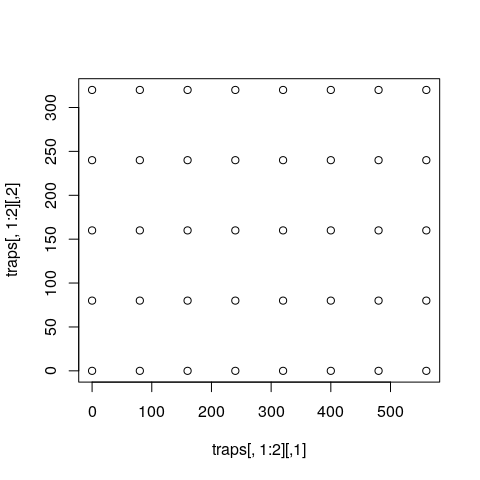
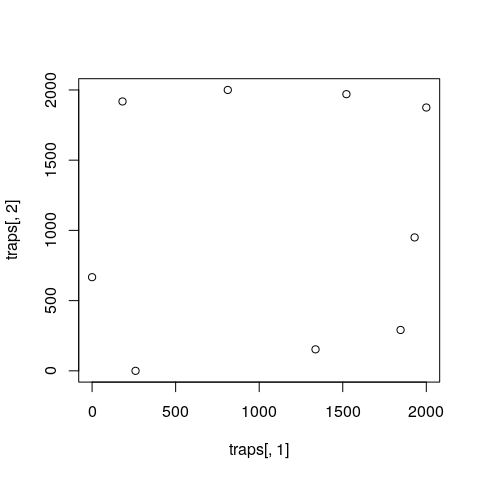
vignette stuff...

diff --git a/README.md b/README.md
@@ -49,6 +49,16 @@ make_regular_grid("my_grid")
 
     #> [1] "Trapping grid  my_grid written"
 
+Or make a random grid of at least a minimum distance apart, that can
+include perimeter traps or not
+
+``` r
+make_random_grid(n.traps=5, gridname="my_grid", perim=TRUE)
+#> Trapping grid my_grid written
+```
+
+<img src="man/figures/README-unnamed-chunk-3-1.png" width="50%" />
+
 Simulations can be setup in R and results stored as
 objects
 
@@ -81,20 +91,24 @@ ggplot (model1$flyLoc, aes(as.integer(X), as.integer(Y),  colour=as.integer(Simu
   theme_dark()
 ```
 
-<img src="man/figures/README-unnamed-chunk-4-1.png" width="50%" />
+<img src="man/figures/README-unnamed-chunk-5-1.png" width="50%" />
 
 …..which is a bit messy, so using `{gganimate}` can make an animation:
 
 ``` r
 library (gganimate)
-ggplot (model1$flyLoc, aes(as.integer(X), as.integer(Y),  colour=as.integer(Simulation.Number)))+
+ggplot (model1$flyLoc[model1$flyLoc$Simulation.Number==1:3,], aes(as.integer(X), as.integer(Y),  colour=as.integer(Simulation.Number)))+
   geom_point()+
   transition_time(as.integer(Day)) +
   scale_colour_viridis_c()+
   theme_dark()
+#> Warning in `==.default`(model1$flyLoc$Simulation.Number, 1:3): longer object
+#> length is not a multiple of shorter object length
+#> Warning in is.na(e1) | is.na(e2): longer object length is not a multiple of
+#> shorter object length
 ```
 
-<img src="man/figures/README-unnamed-chunk-5-1.gif" width="50%" />
+<img src="man/figures/README-unnamed-chunk-6-1.gif" width="50%" />
 
 We’ve included functions so that actualy trap arrangements can be easily
 be used in R, and are implementing further changes to the model that
